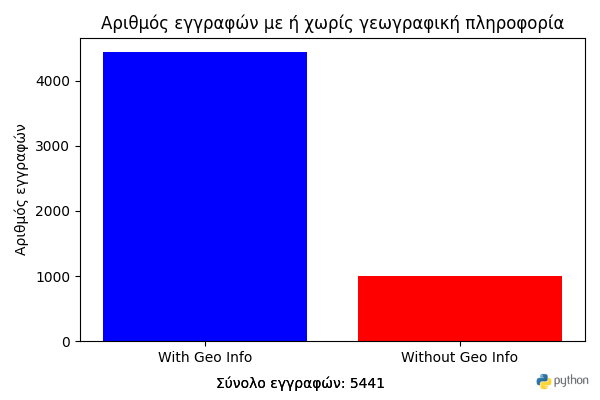
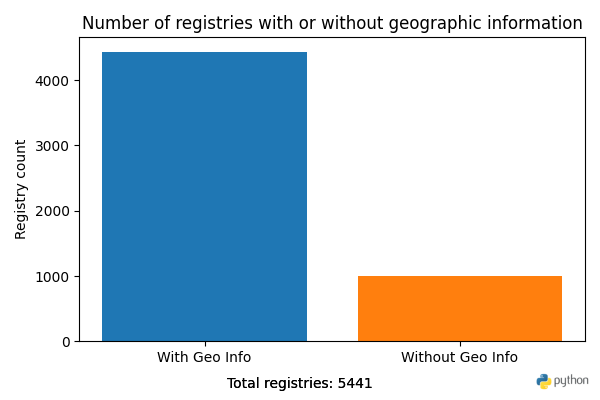
changed prints from greek to english for encoding porpuses, also upgraded  the colors with html codes for better visual appeal

diff --git a/visualization.py b/visualization.py
@@ -114,8 +114,8 @@ plt.pie(
 # plt.savefig("geo_pie_chart.png") σώζει το γράφημα ως εικόνα .png.
 # plt.show() εμφανίζει το γράφημα στην οθόνη.
 
-plt.figtext(0.5, 0.03, f"Σύνολο εγγραφών: {total_registries}", ha='center', fontsize=10) # σχολιασμός παρακάτω.
-plt.title("Ποσοστό εγγραφών με ή χωρίς γεωγραφική πληροφορία")
+plt.figtext(0.5, 0.03, f"Total registries: {total_registries}", ha='center', fontsize=10) # σχολιασμός παρακάτω.
+plt.title("Percentage of registries with or without geographic information")
 
 # Python-logo
 python_logo = mpimg.imread('png-clipart-python-others-text-logo.png')  
@@ -135,7 +135,7 @@ plt.show()
 
 labels = ["With Geo Info", "Without Geo Info"]
 sizes = [with_geo, without_geo]
-colors = ["blue","red"]
+colors = ["#1f77b4", "#ff7f0e"]  # Μπλε & Πορτοκαλί
 
 # με .figure ορίζουμε γράφημα, το οποίο και του δίνουμε διαστάσεις figsize 6 επι 4 ίντσες.
 # η .bar() δημιουργεί τις μπάρεις του Bar Chart. στο παράδειγμα μας είναι της μορφής .bar(x,y,colors), δηλαδή οι τιμές του  χ άξονα, στη συνέχεια οι τιμές του ψ άξονα και τέλος τα χρώματα των μπαρών.
@@ -143,16 +143,16 @@ colors = ["blue","red"]
 
 fig = plt.figure(figsize=(6,4))
 plt.bar(labels, sizes, color=colors)
-plt.ylabel("Αριθμός εγγραφών")
+plt.ylabel("Registry count")
 
 # η .figtext() είναι συνάρτηση της matplotlib. Προσθέτει κείμενο στο figure. Οι αριθμοί 0.5 και 0.01 αναφέρονται στην οριζόντια και στην κάθετη θέση του κειμένου και παίρνουν τιμές από 0 μέχρι και 1, από αριστερά προς τα δεξιά και από κάτω προς τα πάνω αντίστοιχα. το ha αναφέρεται στην στοίχιση του κειμένου και πέρνει τιμές center, left, right και fontsize  μέγεθος γραμματοσειράς. 
  
-plt.figtext(0.5, 0.03, f"Σύνολο εγγραφών: {total_registries}", ha='center', fontsize=10)
+plt.figtext(0.5, 0.03, f"Total registries: {total_registries}", ha='center', fontsize=10)
 
 # Όπως και στο προηγούμενο βήμα, ορίζουμε .title(), .tight_layout(), .savefig(), .show() για τους ίδιους ακριβώς λόγους.
 
-plt.title("Αριθμός εγγραφών με ή χωρίς γεωγραφική πληροφορία")
-plt.figtext(0.5, 0.03, f"Σύνολο εγγραφών: {total_registries}", ha='center', fontsize=10)
+plt.title("Number of registries with or without geographic information")
+plt.figtext(0.5, 0.03, f"Total registries: {total_registries}", ha='center', fontsize=10)
 
 # Python-logo
 python_logo = mpimg.imread('png-clipart-python-others-text-logo.png')  
@@ -186,10 +186,10 @@ for i, value in enumerate(field_values):
 #   Το enumerate() σου δίνει:
 #   i: το index (0, 1, 2, ...)
 #   value: η τιμή της μπάρας (π.χ. 4435)
-plt.ylabel("Συχνότητα εμφάνισης γεωγραφικής πληροφορίας.")
-plt.title("Bar Chart για τη συχνότητα των πεδίων με γεωγραφική πληροφορία")
+plt.ylabel("Frequency of geographic data presence")
+plt.title("Bar Chart of the frequency of geographic fields")
 plt.xticks(rotation=30) # περιστρέφει ετικέτες στο χ αξονα κατα 30 μοίρες ώστε να μην επικαλύπτονται όταν αυτές είναι πολύ μεγάλες.
-plt.figtext(0.5, 0.03, f"Σύνολο εγγραφών: {total_registries}", ha="center", fontsize=10) # λεζάντα στο κάτω μέρος του γραφήματος που αναφέρει τον συνολικό αριθμό των εγγραφών.
+plt.figtext(0.5, 0.03, f"Total registries: {total_registries}", ha="center", fontsize=10) # λεζάντα στο κάτω μέρος του γραφήματος που αναφέρει τον συνολικό αριθμό των εγγραφών.
 
 # Python-logo
 python_logo = mpimg.imread('png-clipart-python-others-text-logo.png')  
@@ -205,7 +205,7 @@ plt.show()
 # Βήμα 11: multi-pie diagram Για καθε πεδιο γεωγραφικής πληροφορίας εμφανίζετια ενα μικρο pie chart που διχνει πόσα δείγματα έχουν το πεδιο αυτό και πόσα δείγματα δεν έχουν το πεδίο αυτό.
 
 fig = plt.figure(figsize=(12,7))
-plt.figtext(0.5, 0.95, "Ποσοστά κάλυψης γεωγραφικών πεδίων ως προς το σύνολο των εγγραφών", ha="center", fontsize=14, fontweight="bold") # ορίζουμε τίτλο οχι με .title() αλλά με .figtext() γιατί το .title() θα το χρειαστούμε αργότερα για κάθε ξεχωριστό pie chart.
+plt.figtext(0.5, 0.95, "Coverage percentages of geographic fields relative to total registries", ha="center", fontsize=14, fontweight="bold") # we define a title using .figtext() instead of .title() because .title() will be used later for each individual pie chart.
 
 rows = 2    # ορίζουμε μεταβλητές για γραμμες και στηλες που θα ορίσουν τα 8 κελιά που καθένα θα περιέχει ένα pie chart.
 cols = 3
@@ -222,8 +222,9 @@ field_names = ["country", "location", "coordinates", "isolation_source"]
 for idx, (field_name, field_value) in enumerate(zip(field_names, field_values)):
     missing = total_registries - field_value
     sizes = [field_value, missing] #ορίζουμε τα μεγέθη του pie chart.
-    labels = ["Παρατίθεται", "Απουσιάζει"] # labels και χρωματα μπλε και κοκκινο για τα μεγέθη.
-    colors = ["blue","red"]
+    labels = ["Provided", "Missing"] # labels και χρωματα μπλε και κοκκινο για τα μεγέθη.
+    colors = ["#2ca02c", "#d62728"] # Πράσινο & Κόκκινο
+
     plt.subplot(rows, cols, idx + 1)    # Το plt.subplot() δημιουργεί πολλαπλά γραφήματα (subplots) σε μία ενιαία εικόνα. Του δίνουμε τις μεταβλητες που ορισαμε παραπάνω γραμμές και στήλες και μετά τη μεταβλητή idx που παίρνει αριθμητικές θέσεις για field_name.Επειδή το enumerate() ξεκινάει από 0, αλλά το subplot() περιμένει θέσεις ξεκινώντας από 1. Άρα: idx = 0 → θέση 1 idx = 1 → θέση 2. Ειμαστέ έτοιμοι τωρα να ορισουμε .pie().
     plt.pie(sizes,labels=labels,autopct= lambda pct: f"{pct:.1f}% ({int(pct / 100. * sum(sizes))})", startangle=90, colors=colors)
     plt.title(field_name, fontsize=10, fontweight="bold")
@@ -247,9 +248,9 @@ country= frequency.get("country")
 no_data= total_registries - country
 sizes= [country, no_data]
 labels= ["country","no data"]
-colors= ["blue", "red"]
+colors= ["#9467bd", "#8c564b"] # Μοβ & Καφέ
 fig = plt.figure(figsize=(6, 6))
-plt.pie(sizes, labels=labels, autopct= lambda pct: f"{pct:.1f}% ({int(pct / 100. * sum(sizes))})", startangle=90, colors = ["blue","red"])
+plt.pie(sizes, labels=labels, autopct= lambda pct: f"{pct:.1f}% ({int(pct / 100. * sum(sizes))})", startangle=90, colors = colors)
 
 # Python-logo
 python_logo = mpimg.imread('png-clipart-python-others-text-logo.png')  
@@ -259,8 +260,8 @@ logo_ax.imshow(python_logo)
 logo_ax.axis('off')
 
 plt.tight_layout()
-plt.title("Ποσοστό εγγραφών με ή χωρίς γεωγραφική πληροφορία χώρας")
-plt.figtext(0.5, 0.03, f"Σύνολο εγγραφών: {total_registries}", ha='center', fontsize=10)
+plt.title("Percentage of registries with or without country geographic information")
+plt.figtext(0.5, 0.03, f"Total registries: {total_registries}", ha='center', fontsize=10)
 plt.savefig("country_pie_chart.png")
 plt.show()
 
@@ -270,10 +271,10 @@ location= frequency.get("location")
 no_data= total_registries - location
 sizes= [location, no_data]
 labels= ["location","no data"]
-colors= ["blue", "red"]
+["#17becf", "#bcbd22"] #  Κυανό & Κιτρινοπράσινο
 
 fig = plt.figure(figsize=(6, 6))
-plt.pie(sizes, labels=labels, autopct= lambda pct: f"{pct:.1f}% ({int(pct / 100. * sum(sizes))})", startangle=90, colors = ["blue","red"])
+plt.pie(sizes, labels=labels, autopct= lambda pct: f"{pct:.1f}% ({int(pct / 100. * sum(sizes))})", startangle=90, colors = colors)
 
 # Python-logo
 python_logo = mpimg.imread('png-clipart-python-others-text-logo.png')  
@@ -283,8 +284,8 @@ logo_ax.imshow(python_logo)
 logo_ax.axis('off')
 
 plt.tight_layout()
-plt.title("Ποσοστό εγγραφών με ή χωρίς γεωγραφική πληροφορία περιοχής")
-plt.figtext(0.5, 0.03, f"Σύνολο εγγραφών: {total_registries}", ha='center', fontsize=10)
+plt.title("Percentage of registries with or without regional geographic information")
+plt.figtext(0.5, 0.03, f"Total registries: {total_registries}", ha='center', fontsize=10)
 plt.savefig("location_pie_chart.png")
 plt.show()
 
@@ -294,12 +295,12 @@ coordinates= frequency.get("lat")
 no_data= total_registries - coordinates
 sizes=[coordinates, no_data]
 labels= ["coordinates","no data"]
-colors= ["blue", "red"]
+colors = ["#007acc", "#cc0000"]   # καθαρό μπλε & έντονο κόκκινο
 
 fig= plt.figure(figsize=(6, 6))
-plt.pie(sizes, labels=labels, autopct= lambda pct: f"{pct:.1f}% ({int(pct / 100. * sum(sizes))})", startangle=90, colors = ["blue","red"])
-plt.title("Ποσοστό εγγραφών με ή χωρίς γεωγραφική πληροφορία συντεταγμένων")
-plt.figtext(0.5, 0.03, f"Σύνολο εγγραφών: {total_registries}", ha='center', fontsize=10)
+plt.pie(sizes, labels=labels, autopct= lambda pct: f"{pct:.1f}% ({int(pct / 100. * sum(sizes))})", startangle=90, colors = colors)
+plt.title("Percentage of registries with or without coordinate geographic information")
+plt.figtext(0.5, 0.03, f"Total registries: {total_registries}", ha='center', fontsize=10)
 
 # Python-logo
 python_logo = mpimg.imread('png-clipart-python-others-text-logo.png')  
@@ -319,12 +320,12 @@ isolation_source= frequency.get("isolation_source")
 no_data= total_registries - isolation_source
 sizes= [isolation_source, no_data]
 labels= ["isolation_source","no data"]
-colors= ["blue", "red"]
+colors = ["#005f73", "#94d2bd"]  # σκούρο πετρόλ & απαλό τιρκουάζ
 
 fig = plt.figure(figsize=(6, 6))
-plt.pie(sizes, labels=labels, autopct= lambda pct: f"{pct:.1f}% ({int(pct / 100. * sum(sizes))})", startangle=90, colors = ["blue","red"])
-plt.title("Ποσοστό εγγραφών με ή χωρίς γεωγραφική πληροφορία πηγής απομονώσεως")
-plt.figtext(0.5, 0.03, f"Σύνολο εγγραφών: {total_registries}", ha='center', fontsize=10)
+plt.pie(sizes, labels=labels, autopct= lambda pct: f"{pct:.1f}% ({int(pct / 100. * sum(sizes))})", startangle=90, colors = colors)
+plt.title("Percentage of registries with or without geographic information of isolation source")
+plt.figtext(0.5, 0.03, f"Total registries: {total_registries}", ha='center', fontsize=10)
 
 # Python-logo
 python_logo = mpimg.imread('png-clipart-python-others-text-logo.png')  
